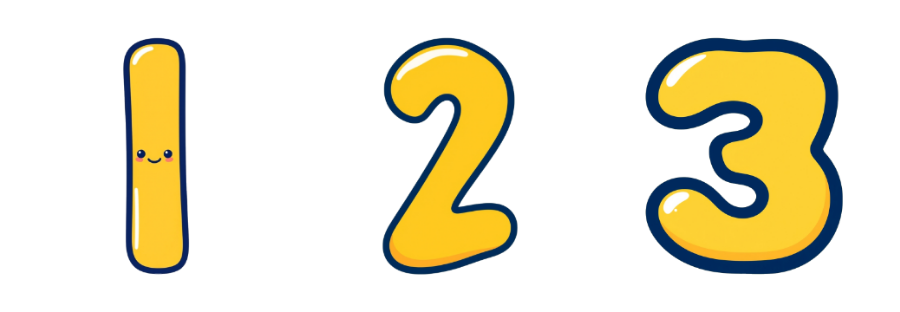
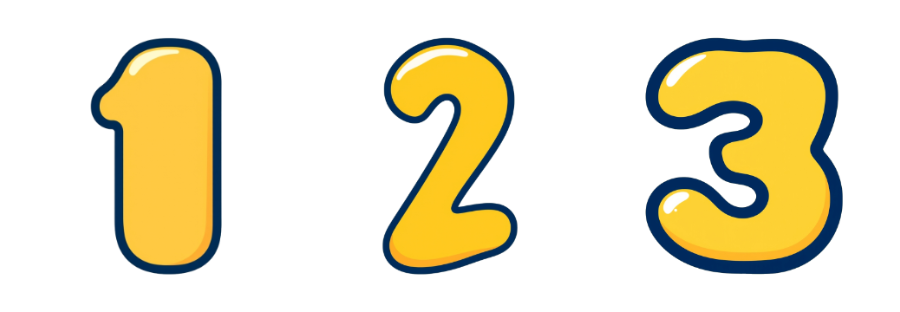
feat(app): Menu pack card - real art, progress dots, badge star
- drawMenu accepts pack card extras: the composited "1 2 3" art (with the
  drawn-stroke fallback for the first frames), a zero-text progress strip
  (cleared numerals navy, remaining white) and a gold star once the pack
  badge is earned.
- The pack card art was rebuilt from the face-free numeral cutouts via the
  new spike/tools/card.mjs compositor (the earlier card carried the old
  smiley-face "1").
- spike/qa-menu-pack.mjs seeds fresh / 4-cleared / badge saves and captures
  the three menu states in one run.

Worlds and the rest of the menu are unchanged. Suite 297/297, check clean.

Changed region(s): [[0.0933, 0.1154, 0.2489, 0.8942]]

diff --git a/src/app/render.ts b/src/app/render.ts
@@ -233,10 +233,19 @@ export function drawSplash(ctx: CanvasRenderingContext2D, now: number, layout: S
   ctx.stroke();
 }
 
+/** Pack card extras: real art plus zero-text progress (first frames: null). */
+export interface PackMenuArt {
+  readonly image: HTMLImageElement | null;
+  readonly cleared: number;
+  readonly total: number;
+  readonly badge: boolean;
+}
+
 export function drawMenu(
   ctx: CanvasRenderingContext2D,
   layout: MenuLayout,
   fills: readonly string[],
+  packArt?: PackMenuArt,
 ): void {
   layout.cards.forEach((card, index) => {
     ctx.beginPath();
@@ -247,7 +256,7 @@ export function drawMenu(
     ctx.strokeStyle = NAVY;
     ctx.stroke();
     if (card.themeId === NUMBERS_PACK.id) {
-      drawMenuPackArt(ctx, card);
+      drawMenuPackCard(ctx, card, packArt);
     } else {
       drawMenuIcon(ctx, index, card.x + card.width / 2, card.y + card.height / 2);
     }
@@ -264,7 +273,52 @@ export function drawMenu(
   ctx.restore();
 }
 
-/** Placeholder "1 2 3" card art until the Phase 4 art batch lands. */
+/** Pack card: "123" art, a dot strip for cleared numerals, star on badge. */
+function drawMenuPackCard(ctx: CanvasRenderingContext2D, card: MenuCard, art?: PackMenuArt): void {
+  const centerX = card.x + card.width / 2;
+  const image = art?.image;
+  if (image) {
+    const maxHeight = card.height - 58;
+    const maxWidth = card.width - 44;
+    const scale = Math.min(maxHeight / image.naturalHeight, maxWidth / image.naturalWidth);
+    const width = image.naturalWidth * scale;
+    const height = image.naturalHeight * scale;
+    ctx.drawImage(
+      image,
+      centerX - width / 2,
+      card.y + 14 + (maxHeight - height) / 2,
+      width,
+      height,
+    );
+  } else {
+    drawMenuPackArt(ctx, card);
+  }
+  if (!art || art.cleared <= 0) {
+    return;
+  }
+  const spacing = 22;
+  const startX = centerX - (spacing * (art.total - 1)) / 2;
+  const dotY = card.y + card.height - 22;
+  for (let i = 0; i < art.total; i += 1) {
+    ctx.beginPath();
+    ctx.arc(startX + i * spacing, dotY, 5.5, 0, Math.PI * 2);
+    ctx.fillStyle = i < art.cleared ? NAVY : '#ffffff';
+    ctx.fill();
+    ctx.lineWidth = 3;
+    ctx.strokeStyle = NAVY;
+    ctx.stroke();
+  }
+  if (art.badge) {
+    drawStar(ctx, card.x + card.width - 28, card.y + 28, 16);
+    ctx.fillStyle = GOLD;
+    ctx.fill();
+    ctx.lineWidth = 4;
+    ctx.strokeStyle = NAVY;
+    ctx.stroke();
+  }
+}
+
+/** Fallback "1 2 3" strokes for the first frames before the card art loads. */
 function drawMenuPackArt(ctx: CanvasRenderingContext2D, card: MenuCard): void {
   const boxWidth = card.width / 4;
   const startX = card.x + (card.width - boxWidth * 3) / 2;

diff --git a/src/main.ts b/src/main.ts
@@ -458,7 +458,14 @@ function render(now: number): void {
   if (screen.name === 'splash') {
     drawSplash(trailContext, now, SPLASH);
   } else if (screen.name === 'menu') {
-    drawMenu(trailContext, MENU, MENU_FILLS);
+    const cardUrl = '/art/pack/card.png';
+    preloadArt(cardUrl);
+    drawMenu(trailContext, MENU, MENU_FILLS, {
+      image: artCache.get(cardUrl) ?? null,
+      cleared: app.save.pack.cleared.length,
+      total: NUMERIC_IDS.length,
+      badge: app.save.pack.badge,
+    });
   } else if (screen.name === 'theme') {
     const entry = themeEntry(screen.themeId);
     const mainIds = entry?.mainLevels.map((level) => level.id) ?? [];
